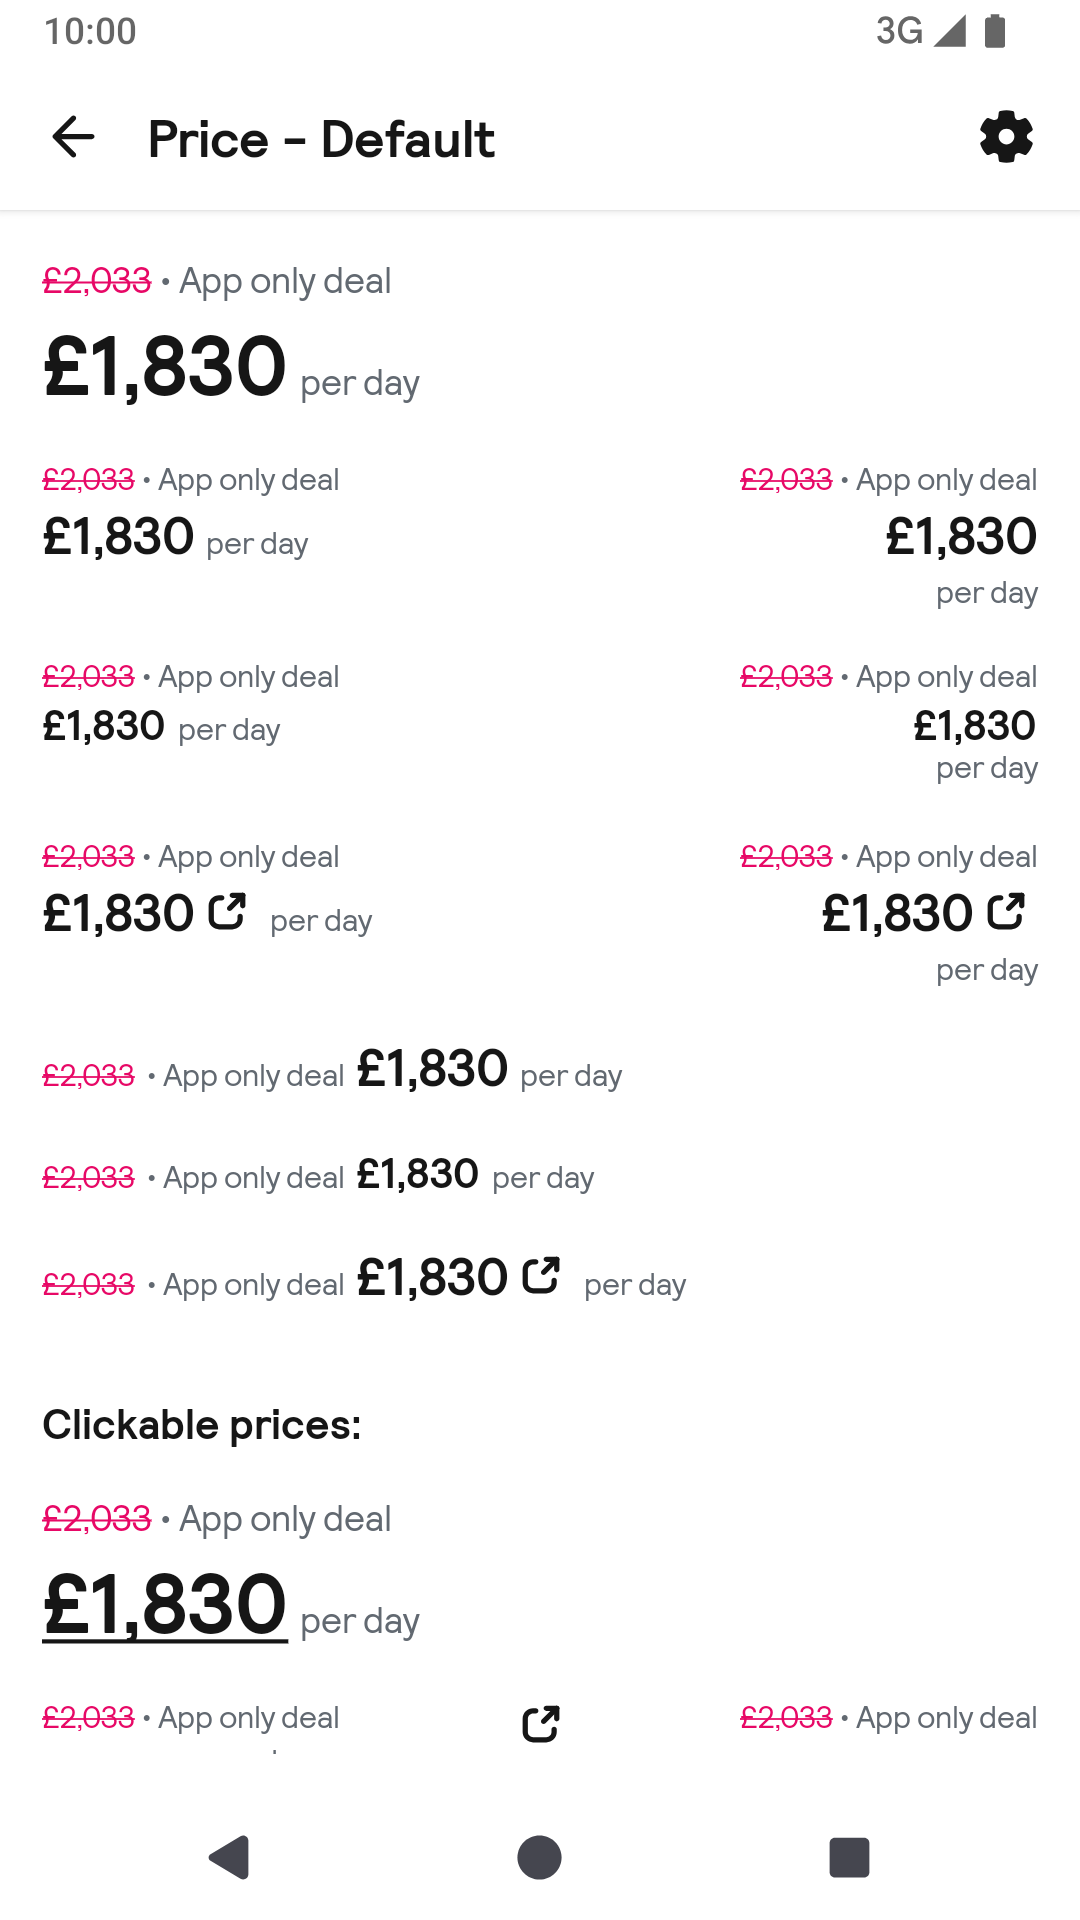
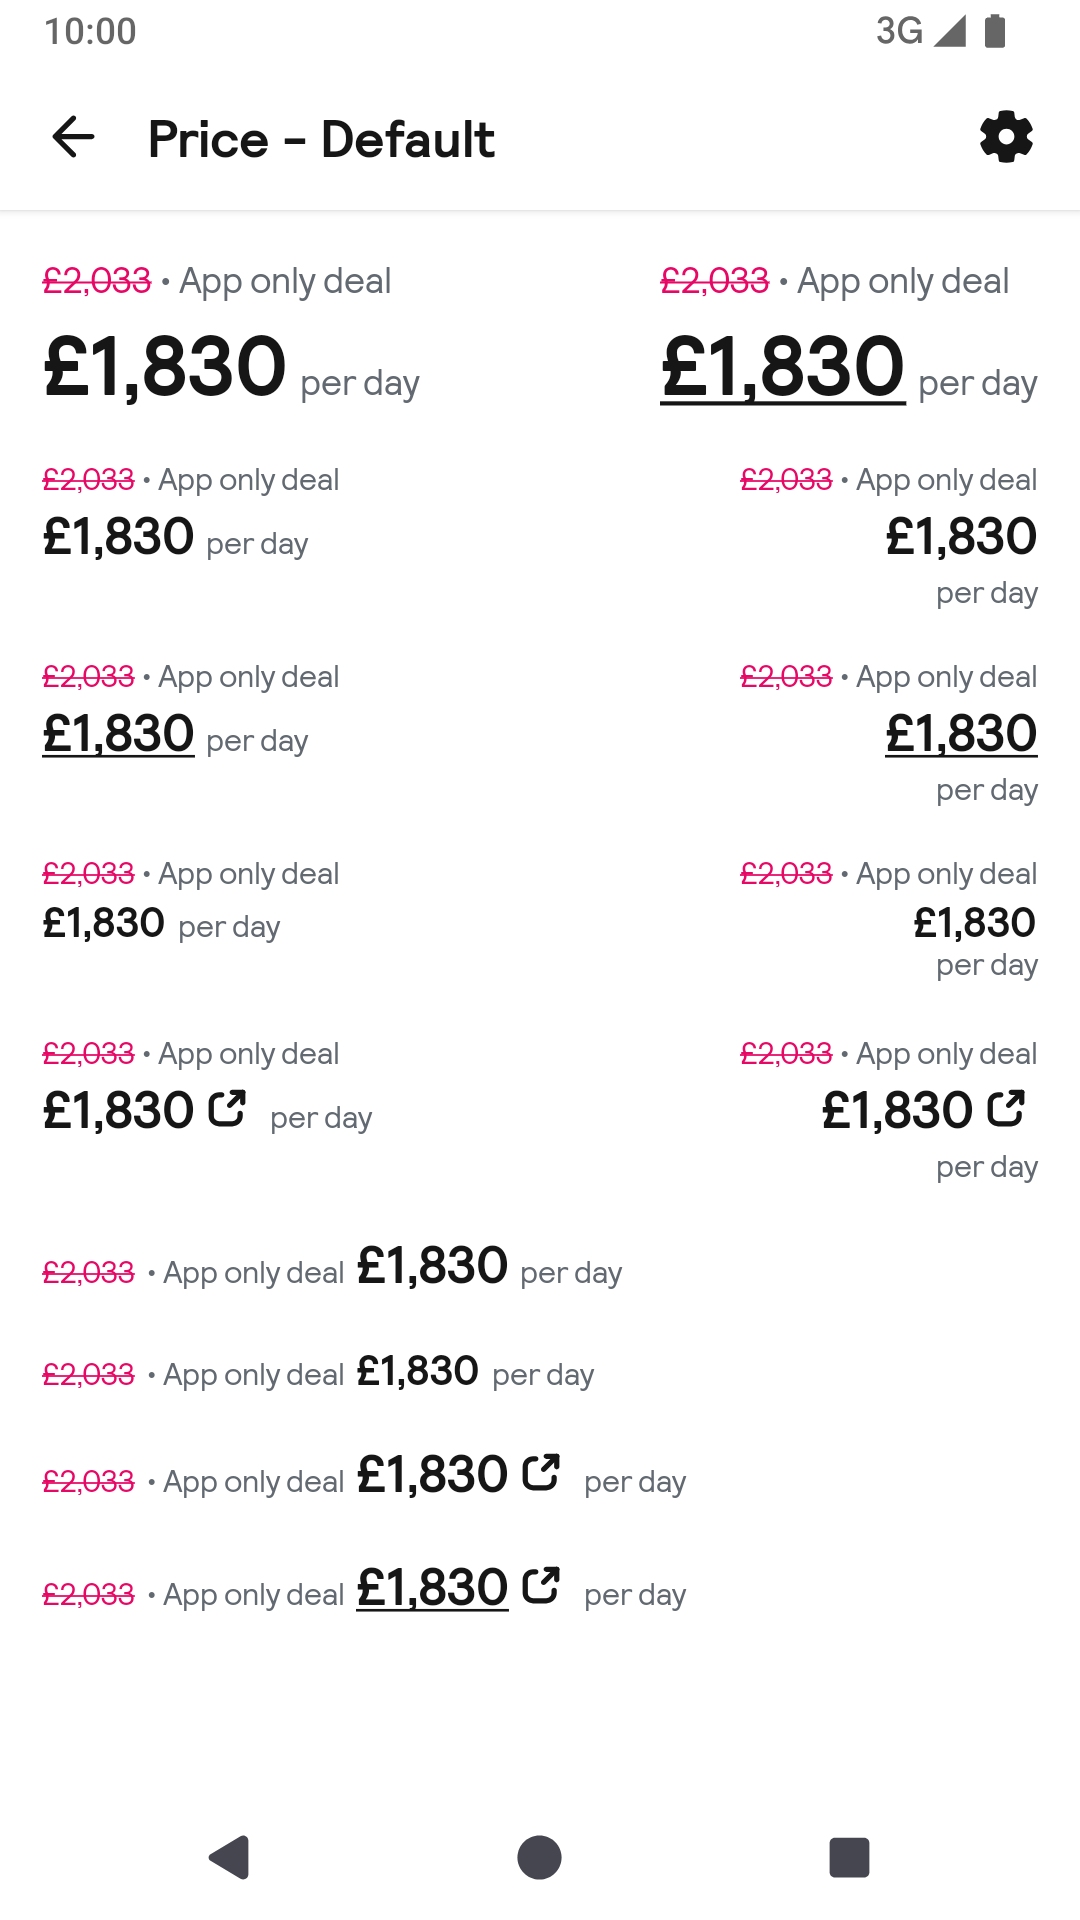
update screenshots

diff --git a/app/src/main/java/net/skyscanner/backpack/demo/compose/PriceStory.kt b/app/src/main/java/net/skyscanner/backpack/demo/compose/PriceStory.kt
@@ -36,8 +36,6 @@ import net.skyscanner.backpack.compose.icon.BpkIcon
 import net.skyscanner.backpack.compose.price.BpkPrice
 import net.skyscanner.backpack.compose.price.BpkPriceAlign
 import net.skyscanner.backpack.compose.price.BpkPriceSize
-import net.skyscanner.backpack.compose.text.BpkText
-import net.skyscanner.backpack.compose.theme.BpkTheme
 import net.skyscanner.backpack.compose.tokens.BpkSpacing
 import net.skyscanner.backpack.compose.tokens.NewWindow
 import net.skyscanner.backpack.demo.R
@@ -61,10 +59,24 @@ fun PriceStory(modifier: Modifier = Modifier) {
                 .fillMaxSize(),
             verticalArrangement = Arrangement.spacedBy(BpkSpacing.Base),
         ) {
-            PriceExample(
-                size = BpkPriceSize.Large,
-                align = BpkPriceAlign.Start,
-            )
+            Row(
+                modifier = Modifier.fillMaxWidth(),
+                horizontalArrangement = Arrangement.SpaceBetween,
+            ) {
+                PriceExample(
+                    size = BpkPriceSize.Large,
+                    align = BpkPriceAlign.Start,
+                )
+                PriceExample(
+                    size = BpkPriceSize.Large,
+                    align = BpkPriceAlign.Start,
+                    onClick = {
+                        scope.launch {
+                            floatingNotificationState.show("Clicked large price!")
+                        }
+                    },
+                )
+            }
             Row(
                 modifier = Modifier.fillMaxWidth(),
                 horizontalArrangement = Arrangement.SpaceBetween,
@@ -76,6 +88,29 @@ fun PriceStory(modifier: Modifier = Modifier) {
                 PriceExample(
                     size = BpkPriceSize.Small,
                     align = BpkPriceAlign.End,
+                )
+            }
+            Row(
+                modifier = Modifier.fillMaxWidth(),
+                horizontalArrangement = Arrangement.SpaceBetween,
+            ) {
+                PriceExample(
+                    size = BpkPriceSize.Small,
+                    align = BpkPriceAlign.Start,
+                    onClick = {
+                        scope.launch {
+                            floatingNotificationState.show("Clicked small start price!")
+                        }
+                    },
+                )
+                PriceExample(
+                    size = BpkPriceSize.Small,
+                    align = BpkPriceAlign.End,
+                    onClick = {
+                        scope.launch {
+                            floatingNotificationState.show("Clicked small end price!")
+                        }
+                    },
                 )
             }
             Row(
@@ -119,48 +154,6 @@ fun PriceStory(modifier: Modifier = Modifier) {
                 align = BpkPriceAlign.Row,
                 icon = BpkIcon.NewWindow,
             )
-
-            // Link examples
-            BpkText(
-                text = "Clickable prices:",
-                color = BpkTheme.colors.textPrimary,
-                style = BpkTheme.typography.heading5,
-                modifier = Modifier.padding(top = BpkSpacing.Base),
-            )
-
-            PriceExample(
-                size = BpkPriceSize.Large,
-                align = BpkPriceAlign.Start,
-                onClick = {
-                    scope.launch {
-                        floatingNotificationState.show("Clicked large price!")
-                    }
-                },
-            )
-
-            Row(
-                modifier = Modifier.fillMaxWidth(),
-                horizontalArrangement = Arrangement.SpaceBetween,
-            ) {
-                PriceExample(
-                    size = BpkPriceSize.Small,
-                    align = BpkPriceAlign.Start,
-                    onClick = {
-                        scope.launch {
-                            floatingNotificationState.show("Clicked small start price!")
-                        }
-                    },
-                )
-                PriceExample(
-                    size = BpkPriceSize.Small,
-                    align = BpkPriceAlign.End,
-                    onClick = {
-                        scope.launch {
-                            floatingNotificationState.show("Clicked small end price!")
-                        }
-                    },
-                )
-            }
 
             PriceExample(
                 size = BpkPriceSize.Small,
